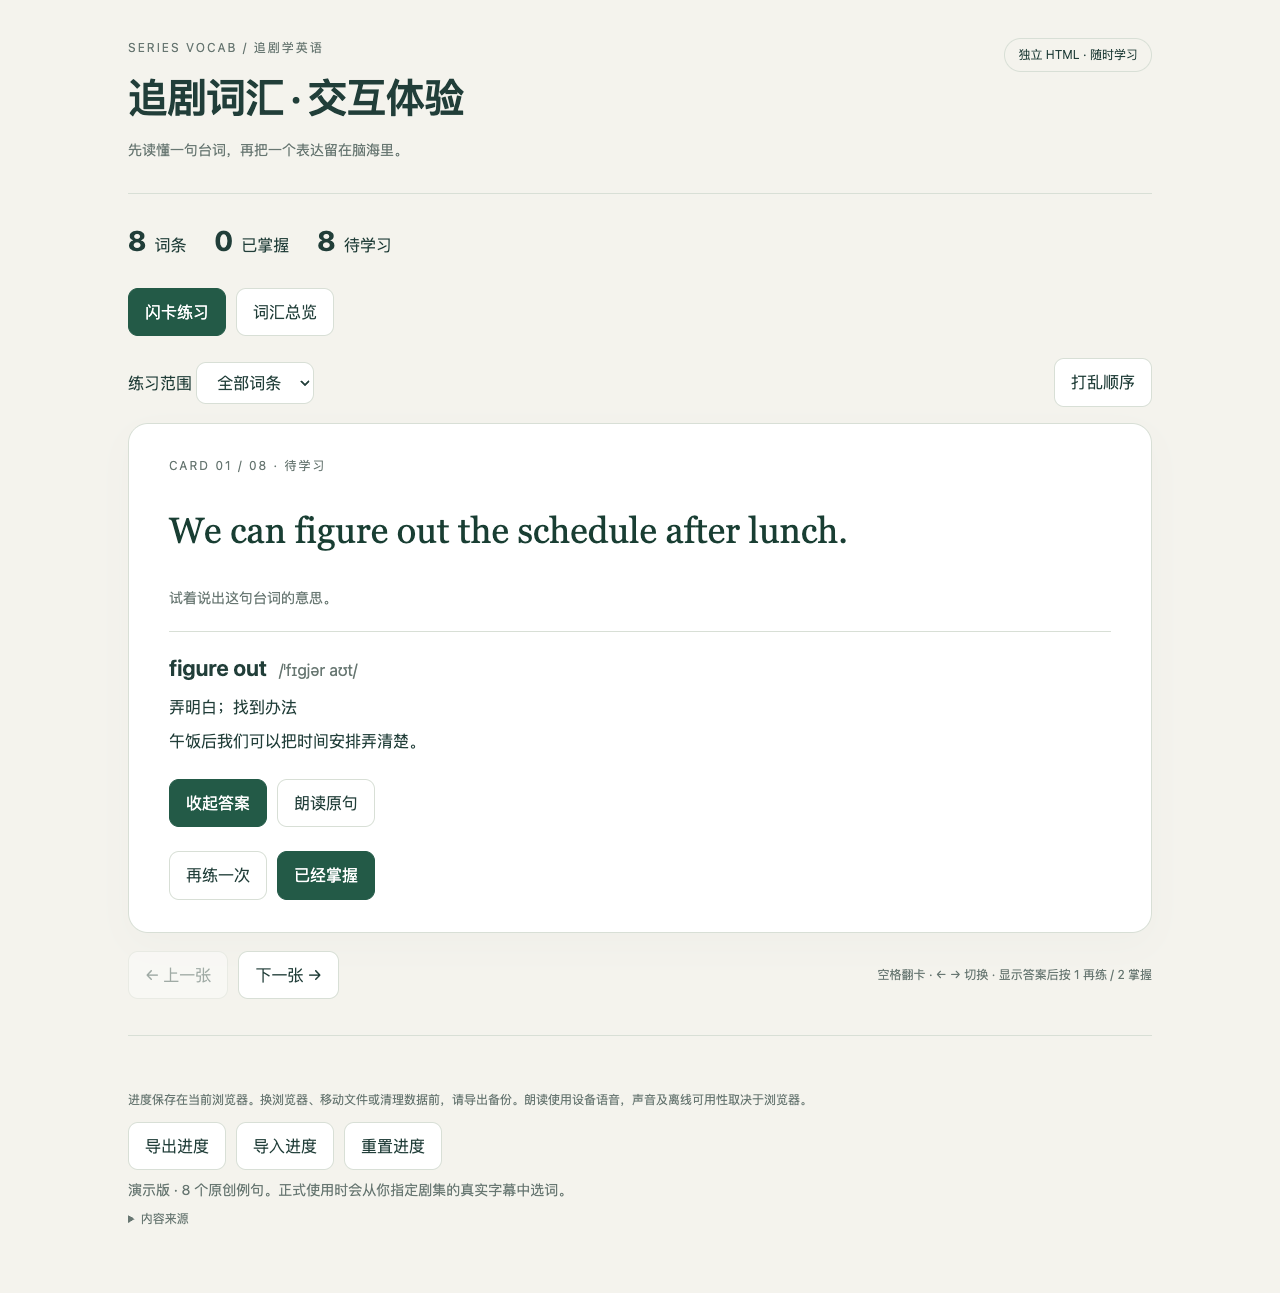
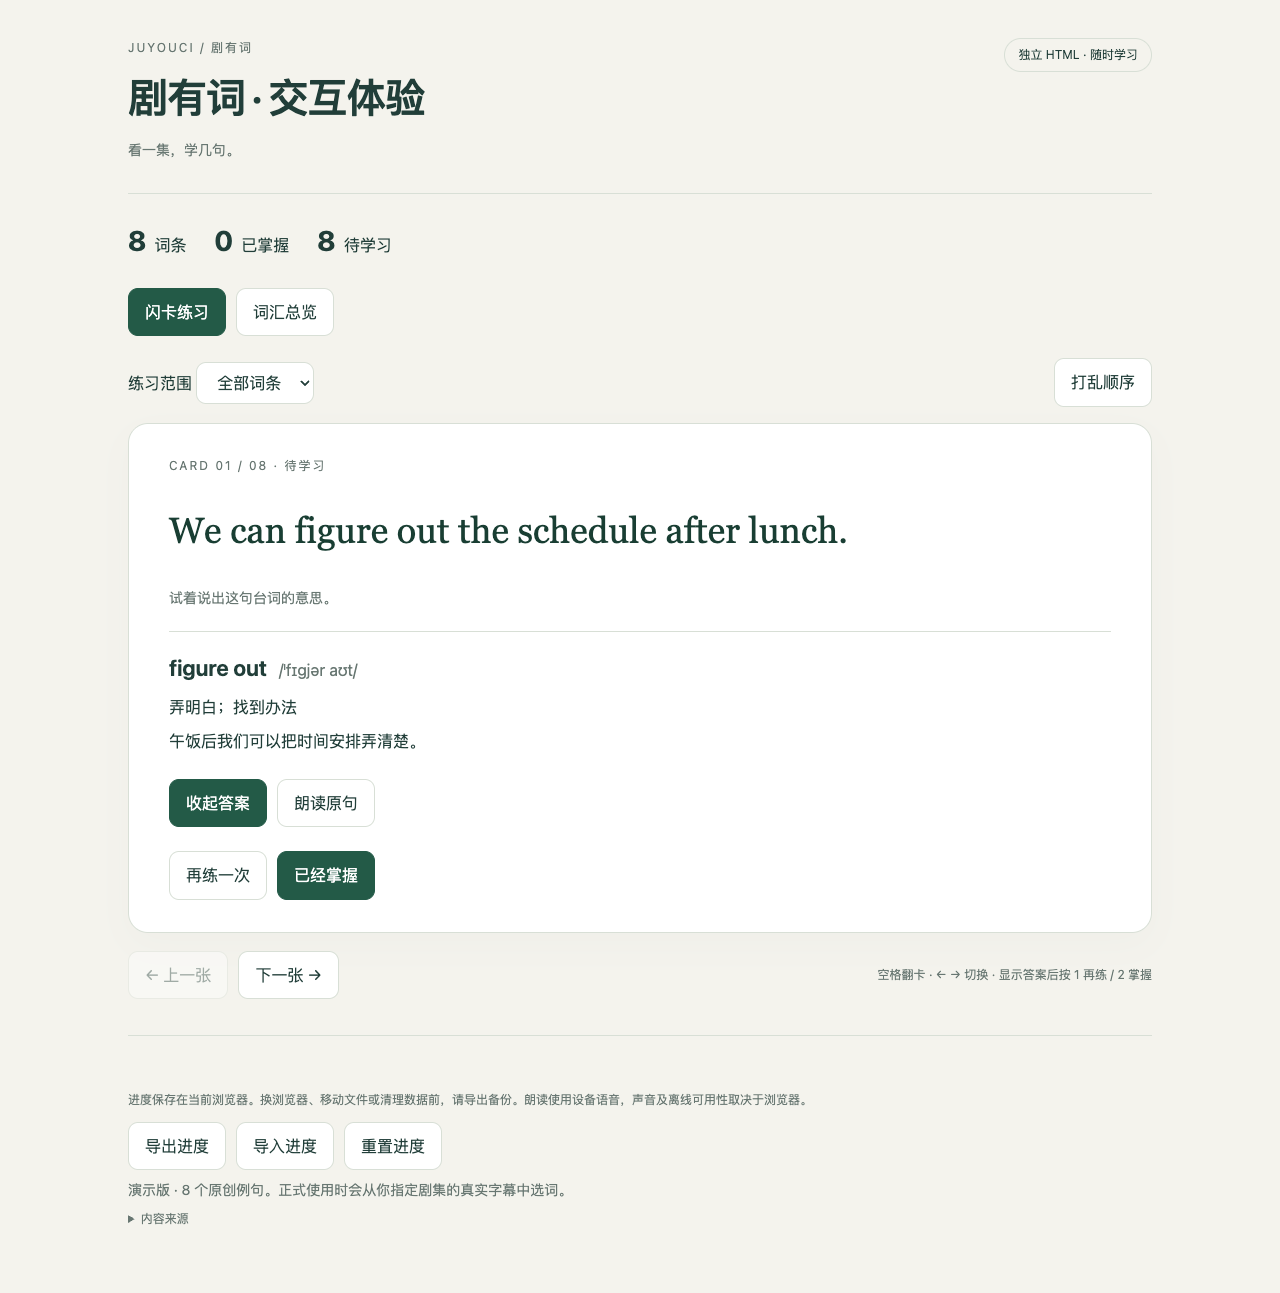
Rename skill and learning page to 剧有词 (juyouci)

Changed region(s): [[0.0938, 0.0309, 0.375, 0.1237]]

diff --git a/examples/demo.html b/examples/demo.html
@@ -1,11 +1,11 @@
 <!doctype html>
 <html lang="zh-CN">
-<head><meta charset="utf-8"><meta name="viewport" content="width=device-width,initial-scale=1"><title>追剧词汇 · 学习卡</title>
+<head><meta charset="utf-8"><meta name="viewport" content="width=device-width,initial-scale=1"><title>剧有词 · 学习卡</title>
 <style>
 :root{--bg:#f4f3ed;--ink:#213e39;--muted:#687772;--line:#d8dfd6;--green:#235a47;--soft:#e5ecdf}*{box-sizing:border-box}body{margin:0;background:var(--bg);color:var(--ink);font:16px/1.65 -apple-system,BlinkMacSystemFont,"Segoe UI",sans-serif}main{max-width:1080px;margin:auto;padding:38px 28px 64px}header{display:flex;justify-content:space-between;gap:20px;align-items:flex-start;border-bottom:1px solid var(--line);padding-bottom:24px}.eyebrow{font-size:12px;letter-spacing:2px;text-transform:uppercase;color:var(--muted)}h1{font-size:clamp(26px,4vw,40px);letter-spacing:-1px;margin:6px 0}p{margin:8px 0}.muted{color:var(--muted);font-size:14px}.badge{border:1px solid var(--line);border-radius:30px;padding:6px 13px;font-size:12px;white-space:nowrap}.stats{display:flex;gap:28px;margin:24px 0}.stats strong{font-size:28px;margin-right:8px}nav,.toolbar,.actions{display:flex;gap:10px;flex-wrap:wrap;align-items:center}button,select,input{font:inherit}button,select{border:1px solid var(--line);background:#fff;color:var(--ink);padding:10px 16px;border-radius:10px;cursor:pointer}button:hover{background:var(--soft)}button:disabled{opacity:.4;cursor:default}button:focus-visible,input:focus-visible,select:focus-visible{outline:3px solid #d99945;outline-offset:3px}.primary,button[aria-pressed=true]{background:var(--green);color:white;border-color:var(--green)}.toolbar{justify-content:space-between;margin:22px 0 16px}.card{background:#fff;border:1px solid var(--line);border-radius:20px;padding:32px 40px;min-height:370px;box-shadow:0 12px 35px #213e3906}.sentence{font-family:Georgia,serif;font-size:clamp(25px,4vw,36px);line-height:1.5;margin:28px 0;color:#193e33}.answer{border-top:1px solid var(--line);margin:22px 0;padding-top:18px}.term{font-size:22px;font-weight:650}.ipa{font-size:16px;color:var(--muted);font-weight:400;margin-left:12px}.actions{margin-top:24px}.bottom{justify-content:space-between;margin-top:18px;display:flex;gap:12px;align-items:center}.hint{font-size:12px;color:var(--muted)}input[type=search]{width:100%;padding:14px 18px;border:1px solid var(--line);border-radius:10px;background:white;margin:22px 0}.word{background:white;border:1px solid var(--line);border-radius:12px;padding:20px 24px;margin-bottom:12px}.word-top{display:flex;justify-content:space-between;gap:12px}.word p{overflow-wrap:anywhere}.word .example{font-family:Georgia,serif;font-size:20px}footer{margin-top:36px;padding-top:22px;border-top:1px solid var(--line)}footer .actions{margin-top:12px}#notice{min-height:24px;color:#855220;font-size:14px}#source-list{overflow-wrap:anywhere}a{color:var(--green)}[hidden]{display:none!important}@media(max-width:620px){main{padding:24px 16px}header{display:block}.badge{display:inline-block;margin-top:10px}.card{padding:22px;min-height:360px}.stats{gap:18px}.stats strong{font-size:23px}.bottom{align-items:flex-start;flex-direction:column}.actions button{flex:1}.word{padding:16px}}
 </style></head>
 <body><main>
-<header><div><div class="eyebrow">SERIES VOCAB / 追剧学英语</div><h1 id="title"></h1><p class="muted">先读懂一句台词，再把一个表达留在脑海里。</p></div><span class="badge">独立 HTML · 随时学习</span></header>
+<header><div><div class="eyebrow">JUYOUCI / 剧有词</div><h1 id="title"></h1><p class="muted">看一集，学几句。</p></div><span class="badge">独立 HTML · 随时学习</span></header>
 <div class="stats" aria-label="学习统计"><div><strong id="total">0</strong>词条</div><div><strong id="learned">0</strong>已掌握</div><div><strong id="remaining">0</strong>待学习</div></div>
 <nav aria-label="页面模式"><button id="study-tab" aria-pressed="true">闪卡练习</button><button id="list-tab" aria-pressed="false">词汇总览</button></nav>
 <section id="study"><div class="toolbar"><label>练习范围 <select id="filter"><option value="all">全部词条</option><option value="unlearned">未掌握</option><option value="again">再练一次</option></select></label><button id="shuffle">打乱顺序</button></div>
@@ -13,7 +13,7 @@
 <div class="bottom"><div class="actions" style="margin:0"><button id="prev">← 上一张</button><button id="next">下一张 →</button></div><span class="hint">空格翻卡 · ← → 切换 · 显示答案后按 1 再练 / 2 掌握</span></div></section>
 <section id="list" hidden><input id="search" type="search" aria-label="搜索词汇" placeholder="搜索词汇、释义或台词…"><p class="muted" id="results"></p><div id="words"></div></section>
 <footer><div id="notice" role="status" aria-live="polite"></div><p class="hint">进度保存在当前浏览器。换浏览器、移动文件或清理数据前，请导出备份。朗读使用设备语音，声音及离线可用性取决于浏览器。</p><div class="actions"><button id="export">导出进度</button><button id="import">导入进度</button><button id="reset">重置进度</button><input type="file" id="file" accept="application/json,.json" hidden></div><p class="muted" id="note"></p><details><summary class="hint">内容来源</summary><div id="source-list"></div></details></footer>
-</main><script type="application/json" id="vocab-data">{"title": "追剧词汇 · 交互体验", "deck_id": "demo:original-examples:v1:zh", "cards": [{"term": "figure out", "meaning": "弄明白；找到办法", "ipa": "/ˈfɪɡjər aʊt/", "sentence": "We can figure out the schedule after lunch.", "translation": "午饭后我们可以把时间安排弄清楚。", "id": "009069c64ced7c1404c4"}, {"term": "hold off", "meaning": "暂缓", "ipa": "/hoʊld ɔːf/", "sentence": "Let’s hold off on ordering until everyone arrives.", "translation": "等大家到齐再点餐吧。", "id": "2e0662d041733b83df16"}, {"term": "run into", "meaning": "偶然遇见", "ipa": "/rʌn ˈɪntuː/", "sentence": "I didn’t expect to run into my neighbor at the museum.", "translation": "我没想到会在博物馆偶遇邻居。", "id": "2dd1a3740d3a9b7c611d"}, {"term": "pull off", "meaning": "成功做到困难的事", "ipa": "/pʊl ɔːf/", "sentence": "With a little practice, we might pull off this performance.", "translation": "稍加练习，我们也许就能完成这场演出。", "id": "95220caed37961bd3108"}, {"term": "on the fence", "meaning": "犹豫不决", "ipa": "/ɑːn ðə fens/", "sentence": "I’m still on the fence about taking the evening class.", "translation": "我还在犹豫要不要上晚课。", "id": "9bbe89b1e27b011dbb46"}, {"term": "catch up", "meaning": "了解近况；叙旧", "ipa": "/kætʃ ʌp/", "sentence": "Let’s catch up over coffee this weekend.", "translation": "这周末我们喝杯咖啡叙叙旧吧。", "id": "e3e9a18529abec6f7f9c"}, {"term": "turn down", "meaning": "拒绝", "ipa": "/tɜːrn daʊn/", "sentence": "She had to turn down the invitation because of work.", "translation": "她因为工作不得不拒绝邀请。", "id": "25705e44338d06e4bacf"}, {"term": "give it a shot", "meaning": "试一试", "ipa": "/ɡɪv ɪt ə ʃɑːt/", "sentence": "The recipe looks tricky, but I’ll give it a shot.", "translation": "这道菜看着不好做，不过我想试一试。", "id": "523bc5975b8ce72785cc"}], "sources": ["原创演示句，仅展示学习页功能，不属于任何真实剧集。"], "note": "演示版 · 8 个原创例句。正式使用时会从你指定剧集的真实字幕中选词。"}</script><script>
+</main><script type="application/json" id="vocab-data">{"title": "剧有词 · 交互体验", "deck_id": "demo:original-examples:v1:zh", "cards": [{"term": "figure out", "meaning": "弄明白；找到办法", "ipa": "/ˈfɪɡjər aʊt/", "sentence": "We can figure out the schedule after lunch.", "translation": "午饭后我们可以把时间安排弄清楚。", "id": "009069c64ced7c1404c4"}, {"term": "hold off", "meaning": "暂缓", "ipa": "/hoʊld ɔːf/", "sentence": "Let’s hold off on ordering until everyone arrives.", "translation": "等大家到齐再点餐吧。", "id": "2e0662d041733b83df16"}, {"term": "run into", "meaning": "偶然遇见", "ipa": "/rʌn ˈɪntuː/", "sentence": "I didn’t expect to run into my neighbor at the museum.", "translation": "我没想到会在博物馆偶遇邻居。", "id": "2dd1a3740d3a9b7c611d"}, {"term": "pull off", "meaning": "成功做到困难的事", "ipa": "/pʊl ɔːf/", "sentence": "With a little practice, we might pull off this performance.", "translation": "稍加练习，我们也许就能完成这场演出。", "id": "95220caed37961bd3108"}, {"term": "on the fence", "meaning": "犹豫不决", "ipa": "/ɑːn ðə fens/", "sentence": "I’m still on the fence about taking the evening class.", "translation": "我还在犹豫要不要上晚课。", "id": "9bbe89b1e27b011dbb46"}, {"term": "catch up", "meaning": "了解近况；叙旧", "ipa": "/kætʃ ʌp/", "sentence": "Let’s catch up over coffee this weekend.", "translation": "这周末我们喝杯咖啡叙叙旧吧。", "id": "e3e9a18529abec6f7f9c"}, {"term": "turn down", "meaning": "拒绝", "ipa": "/tɜːrn daʊn/", "sentence": "She had to turn down the invitation because of work.", "translation": "她因为工作不得不拒绝邀请。", "id": "25705e44338d06e4bacf"}, {"term": "give it a shot", "meaning": "试一试", "ipa": "/ɡɪv ɪt ə ʃɑːt/", "sentence": "The recipe looks tricky, but I’ll give it a shot.", "translation": "这道菜看着不好做，不过我想试一试。", "id": "523bc5975b8ce72785cc"}], "sources": ["原创演示句，仅展示学习页功能，不属于任何真实剧集。"], "note": "演示版 · 8 个原创例句。正式使用时会从你指定剧集的真实字幕中选词。"}</script><script>
 'use strict';
 const D=JSON.parse(document.getElementById('vocab-data').textContent), $=id=>document.getElementById(id);
 const key='series-vocab:v1:'+D.deck_id, ids=new Set(D.cards.map(c=>c.id));
@@ -34,7 +34,7 @@ function move(n){if('speechSynthesis'in window)speechSynthesis.cancel();index=Ma
 function rate(value){if(!revealed||!queue[index])return;const c=queue[index];progress[c.id]=value;save();if(!matches(c)){queue.splice(index,1);index=Math.min(index,Math.max(0,queue.length-1));}else if(index<queue.length-1){index++;}render();}
 function list(){const q=$('search').value.trim().toLocaleLowerCase();const rows=D.cards.filter(c=>[c.term,c.meaning,c.sentence,c.translation].join(' ').toLocaleLowerCase().includes(q));$('results').textContent=`找到 ${rows.length} 个词条`;$('words').replaceChildren();for(const c of rows){const el=document.createElement('article');el.className='word';const top=document.createElement('div');top.className='word-top';const term=document.createElement('strong');term.textContent=c.term;const status=document.createElement('span');status.className='hint';status.textContent=progress[c.id]==='known'?'已掌握':progress[c.id]==='again'?'再练一次':'待学习';top.append(term,status);el.append(top);for(const [txt,cls]of [[c.ipa,'muted'],[c.meaning,''],[c.sentence,'example'],[c.translation,'muted']]){const p=document.createElement('p');p.textContent=txt;p.className=cls;el.append(p);}$('words').append(el);}}
 function switchMode(m){mode=m;$('study').hidden=m!=='study';$('list').hidden=m!=='list';$('study-tab').setAttribute('aria-pressed',m==='study');$('list-tab').setAttribute('aria-pressed',m==='list');if(m==='list')list();}
-$('title').textContent=D.title;document.title=D.title+' · 追剧词汇';$('note').textContent=D.note;
+$('title').textContent=D.title;document.title=D.title+' · 剧有词';$('note').textContent=D.note;
 for(const s of D.sources){const p=document.createElement('p');if(/^https?:\/\//i.test(s)){const a=document.createElement('a');a.href=s;a.textContent=s;a.target='_blank';a.rel='noopener noreferrer';p.append(a);}else p.textContent=s;$('source-list').append(p);}
 $('study-tab').onclick=()=>switchMode('study');$('list-tab').onclick=()=>switchMode('list');$('search').oninput=list;$('filter').onchange=rebuild;$('reveal').onclick=reveal;$('prev').onclick=()=>move(-1);$('next').onclick=()=>move(1);$('known').onclick=()=>rate('known');$('again').onclick=()=>rate('again');
 $('shuffle').onclick=()=>{for(let i=queue.length-1;i>0;i--){const j=Math.floor(Math.random()*(i+1));[queue[i],queue[j]]=[queue[j],queue[i]];}index=0;render();};

diff --git a/assets/study.html b/assets/study.html
@@ -1,11 +1,11 @@
 <!doctype html>
 <html lang="zh-CN">
-<head><meta charset="utf-8"><meta name="viewport" content="width=device-width,initial-scale=1"><title>追剧词汇 · 学习卡</title>
+<head><meta charset="utf-8"><meta name="viewport" content="width=device-width,initial-scale=1"><title>剧有词 · 学习卡</title>
 <style>
 :root{--bg:#f4f3ed;--ink:#213e39;--muted:#687772;--line:#d8dfd6;--green:#235a47;--soft:#e5ecdf}*{box-sizing:border-box}body{margin:0;background:var(--bg);color:var(--ink);font:16px/1.65 -apple-system,BlinkMacSystemFont,"Segoe UI",sans-serif}main{max-width:1080px;margin:auto;padding:38px 28px 64px}header{display:flex;justify-content:space-between;gap:20px;align-items:flex-start;border-bottom:1px solid var(--line);padding-bottom:24px}.eyebrow{font-size:12px;letter-spacing:2px;text-transform:uppercase;color:var(--muted)}h1{font-size:clamp(26px,4vw,40px);letter-spacing:-1px;margin:6px 0}p{margin:8px 0}.muted{color:var(--muted);font-size:14px}.badge{border:1px solid var(--line);border-radius:30px;padding:6px 13px;font-size:12px;white-space:nowrap}.stats{display:flex;gap:28px;margin:24px 0}.stats strong{font-size:28px;margin-right:8px}nav,.toolbar,.actions{display:flex;gap:10px;flex-wrap:wrap;align-items:center}button,select,input{font:inherit}button,select{border:1px solid var(--line);background:#fff;color:var(--ink);padding:10px 16px;border-radius:10px;cursor:pointer}button:hover{background:var(--soft)}button:disabled{opacity:.4;cursor:default}button:focus-visible,input:focus-visible,select:focus-visible{outline:3px solid #d99945;outline-offset:3px}.primary,button[aria-pressed=true]{background:var(--green);color:white;border-color:var(--green)}.toolbar{justify-content:space-between;margin:22px 0 16px}.card{background:#fff;border:1px solid var(--line);border-radius:20px;padding:32px 40px;min-height:370px;box-shadow:0 12px 35px #213e3906}.sentence{font-family:Georgia,serif;font-size:clamp(25px,4vw,36px);line-height:1.5;margin:28px 0;color:#193e33}.answer{border-top:1px solid var(--line);margin:22px 0;padding-top:18px}.term{font-size:22px;font-weight:650}.ipa{font-size:16px;color:var(--muted);font-weight:400;margin-left:12px}.actions{margin-top:24px}.bottom{justify-content:space-between;margin-top:18px;display:flex;gap:12px;align-items:center}.hint{font-size:12px;color:var(--muted)}input[type=search]{width:100%;padding:14px 18px;border:1px solid var(--line);border-radius:10px;background:white;margin:22px 0}.word{background:white;border:1px solid var(--line);border-radius:12px;padding:20px 24px;margin-bottom:12px}.word-top{display:flex;justify-content:space-between;gap:12px}.word p{overflow-wrap:anywhere}.word .example{font-family:Georgia,serif;font-size:20px}footer{margin-top:36px;padding-top:22px;border-top:1px solid var(--line)}footer .actions{margin-top:12px}#notice{min-height:24px;color:#855220;font-size:14px}#source-list{overflow-wrap:anywhere}a{color:var(--green)}[hidden]{display:none!important}@media(max-width:620px){main{padding:24px 16px}header{display:block}.badge{display:inline-block;margin-top:10px}.card{padding:22px;min-height:360px}.stats{gap:18px}.stats strong{font-size:23px}.bottom{align-items:flex-start;flex-direction:column}.actions button{flex:1}.word{padding:16px}}
 </style></head>
 <body><main>
-<header><div><div class="eyebrow">SERIES VOCAB / 追剧学英语</div><h1 id="title"></h1><p class="muted">先读懂一句台词，再把一个表达留在脑海里。</p></div><span class="badge">独立 HTML · 随时学习</span></header>
+<header><div><div class="eyebrow">JUYOUCI / 剧有词</div><h1 id="title"></h1><p class="muted">看一集，学几句。</p></div><span class="badge">独立 HTML · 随时学习</span></header>
 <div class="stats" aria-label="学习统计"><div><strong id="total">0</strong>词条</div><div><strong id="learned">0</strong>已掌握</div><div><strong id="remaining">0</strong>待学习</div></div>
 <nav aria-label="页面模式"><button id="study-tab" aria-pressed="true">闪卡练习</button><button id="list-tab" aria-pressed="false">词汇总览</button></nav>
 <section id="study"><div class="toolbar"><label>练习范围 <select id="filter"><option value="all">全部词条</option><option value="unlearned">未掌握</option><option value="again">再练一次</option></select></label><button id="shuffle">打乱顺序</button></div>
@@ -34,7 +34,7 @@ function move(n){if('speechSynthesis'in window)speechSynthesis.cancel();index=Ma
 function rate(value){if(!revealed||!queue[index])return;const c=queue[index];progress[c.id]=value;save();if(!matches(c)){queue.splice(index,1);index=Math.min(index,Math.max(0,queue.length-1));}else if(index<queue.length-1){index++;}render();}
 function list(){const q=$('search').value.trim().toLocaleLowerCase();const rows=D.cards.filter(c=>[c.term,c.meaning,c.sentence,c.translation].join(' ').toLocaleLowerCase().includes(q));$('results').textContent=`找到 ${rows.length} 个词条`;$('words').replaceChildren();for(const c of rows){const el=document.createElement('article');el.className='word';const top=document.createElement('div');top.className='word-top';const term=document.createElement('strong');term.textContent=c.term;const status=document.createElement('span');status.className='hint';status.textContent=progress[c.id]==='known'?'已掌握':progress[c.id]==='again'?'再练一次':'待学习';top.append(term,status);el.append(top);for(const [txt,cls]of [[c.ipa,'muted'],[c.meaning,''],[c.sentence,'example'],[c.translation,'muted']]){const p=document.createElement('p');p.textContent=txt;p.className=cls;el.append(p);}$('words').append(el);}}
 function switchMode(m){mode=m;$('study').hidden=m!=='study';$('list').hidden=m!=='list';$('study-tab').setAttribute('aria-pressed',m==='study');$('list-tab').setAttribute('aria-pressed',m==='list');if(m==='list')list();}
-$('title').textContent=D.title;document.title=D.title+' · 追剧词汇';$('note').textContent=D.note;
+$('title').textContent=D.title;document.title=D.title+' · 剧有词';$('note').textContent=D.note;
 for(const s of D.sources){const p=document.createElement('p');if(/^https?:\/\//i.test(s)){const a=document.createElement('a');a.href=s;a.textContent=s;a.target='_blank';a.rel='noopener noreferrer';p.append(a);}else p.textContent=s;$('source-list').append(p);}
 $('study-tab').onclick=()=>switchMode('study');$('list-tab').onclick=()=>switchMode('list');$('search').oninput=list;$('filter').onchange=rebuild;$('reveal').onclick=reveal;$('prev').onclick=()=>move(-1);$('next').onclick=()=>move(1);$('known').onclick=()=>rate('known');$('again').onclick=()=>rate('again');
 $('shuffle').onclick=()=>{for(let i=queue.length-1;i>0;i--){const j=Math.floor(Math.random()*(i+1));[queue[i],queue[j]]=[queue[j],queue[i]];}index=0;render();};

diff --git a/SKILL.md b/SKILL.md
@@ -1,9 +1,9 @@
 ---
-name: gbro-series-vocab
-description: 追剧学英语。根据英美剧剧名与集数或用户提供的英文字幕，提取实用词汇与原句，直接生成可离线打开的交互 HTML 学习页，支持翻卡、掌握标记、复习筛选、搜索及进度备份，无需 Anki。用于“追剧学英语”“series vocab”“生成剧集词汇网页”等请求。
+name: juyouci
+description: 剧有词，追剧学英语。根据英美剧剧名与集数或用户提供的英文字幕，提取实用词汇与原句，直接生成可离线打开的交互 HTML 学习页，支持翻卡、掌握标记、复习筛选、搜索及进度备份，无需 Anki。用于“剧有词”“追剧学英语”“series vocab”“生成剧集词汇网页”等请求。
 ---
 
-# 追剧学英语 · HTML 版
+# 剧有词
 
 基于 [狗哥笔记原版](https://github.com/pyang5166/gbro-series-vocab) 改编，保留 LICENSE。默认交付独立 HTML，不要求用户安装 Anki、导入 CSV 或启动服务器。生成脚本只依赖 Python 3 标准库；用户学习只需浏览器。
 

diff --git a/README.md b/README.md
@@ -1,4 +1,6 @@
-# 追剧学英语 · HTML 版
+# 剧有词
+
+**看一集，学几句。**
 
 给出剧名 + 集数，AI 从实际字幕中挑选实用词汇，生成一个可直接打开的 HTML 学习页。无需 Anki，无需注册，无需启动服务器。
 
@@ -19,13 +21,13 @@
 ## 安装到 Codex
 
 ```bash
-git clone https://github.com/Chase-qisiai/gbro-series-vocab-html.git ~/.codex/skills/gbro-series-vocab
+git clone https://github.com/Chase-qisiai/juyouci.git ~/.codex/skills/juyouci
 ```
 
 如果目标目录已存在，请先备份或合并，避免覆盖自己的配置。安装后新开一个 Codex 任务使用：
 
 ```text
-使用 $gbro-series-vocab，帮我生成 Breaking Bad S02E03 的 HTML 词汇学习页。
+使用 $juyouci，帮我生成 Breaking Bad S02E03 的 HTML 词汇学习页。
 ```
 
 也可以直接提供英文字幕或剧本文字。AI 负责核实来源、筛词及翻译，生成脚本负责可靠地制作学习页。默认目标 50 条；字幕不足时如实交付实际数量。
